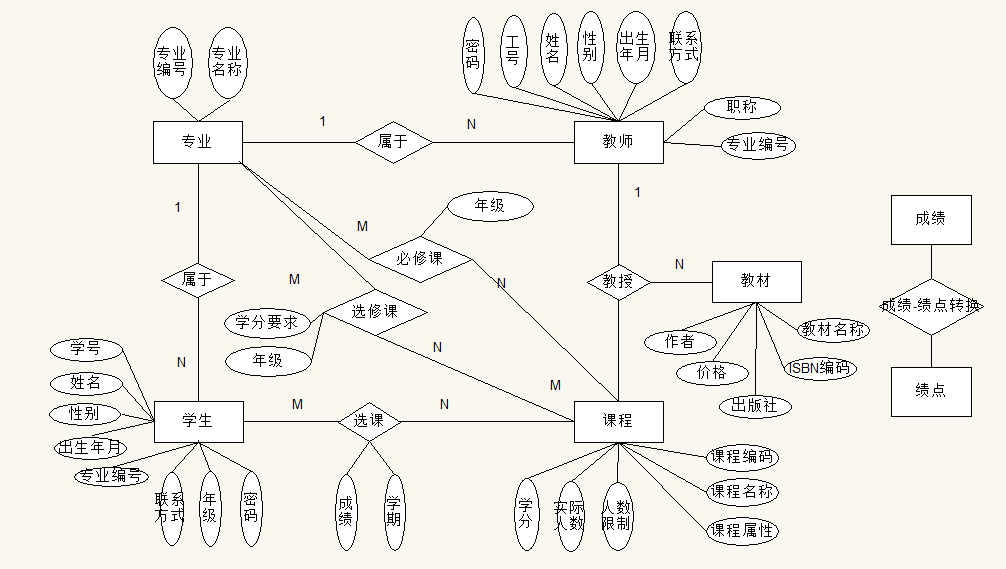
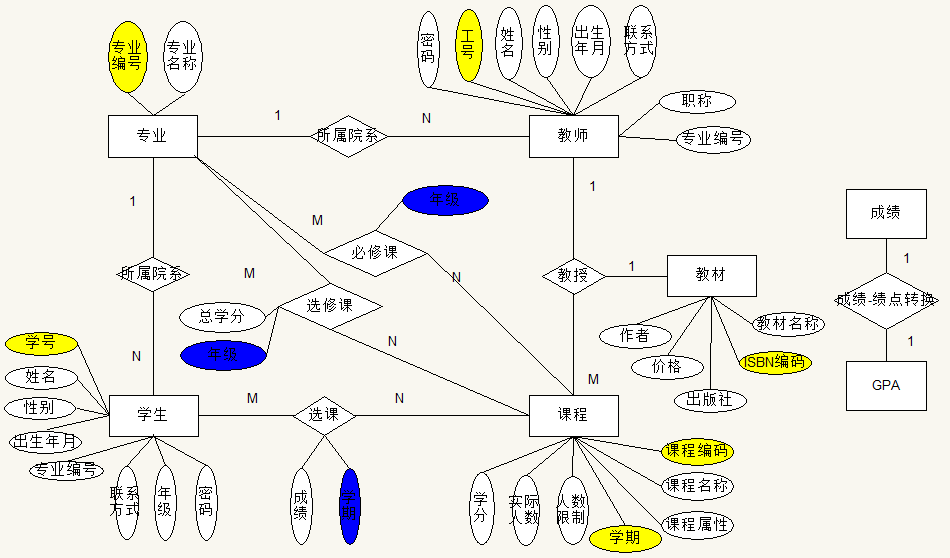
Change ER Diagram

diff --git a/README.md b/README.md
@@ -200,7 +200,7 @@
 
 教师（**工号**，姓名，性别，出生年月，专业编号，联系方式，职称，密码）
 
-课程（**课程编号**，课程名称，课程属性，人数限制，实际人数，学分, 上课时间, 上课地点）
+课程（**课程编号**，**学期**，课程名称，课程属性，人数限制，实际人数，学分, 上课时间, 上课地点）
 
 教材（教材名称，**ISBN编码**，出版社，价格，作者）
 
